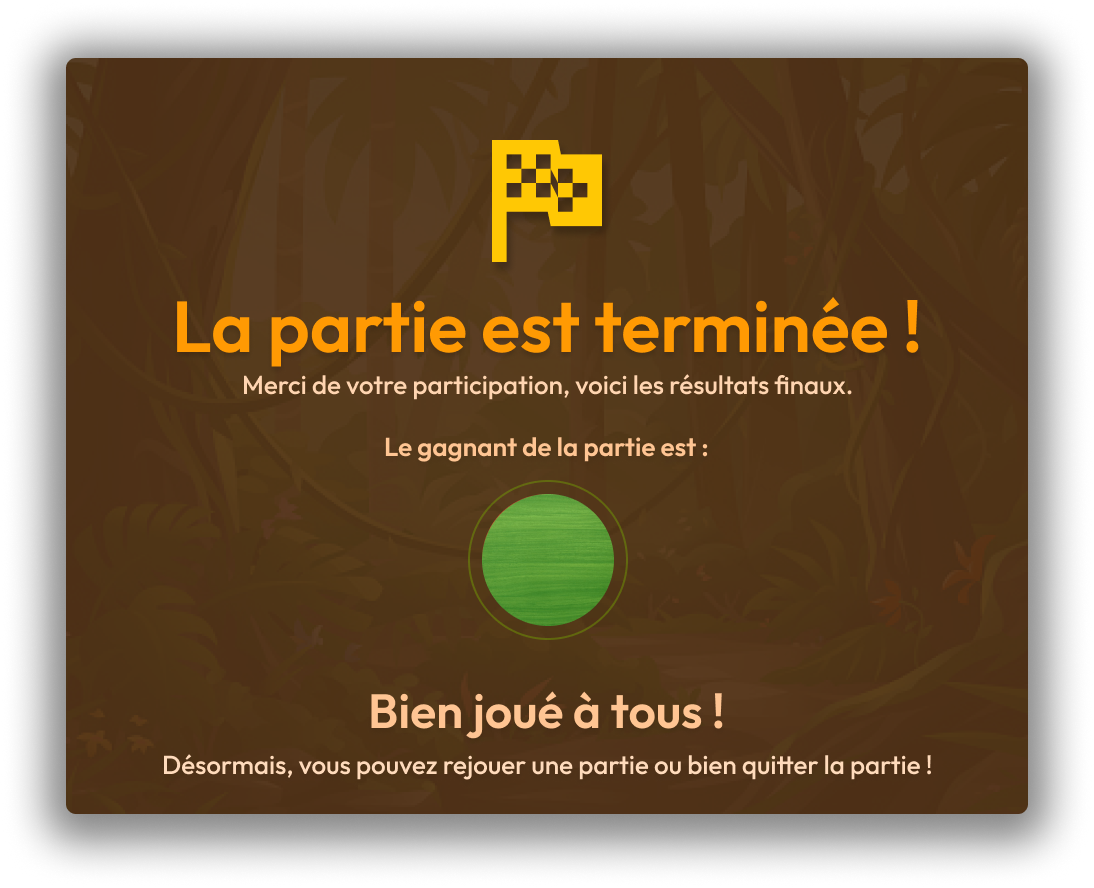
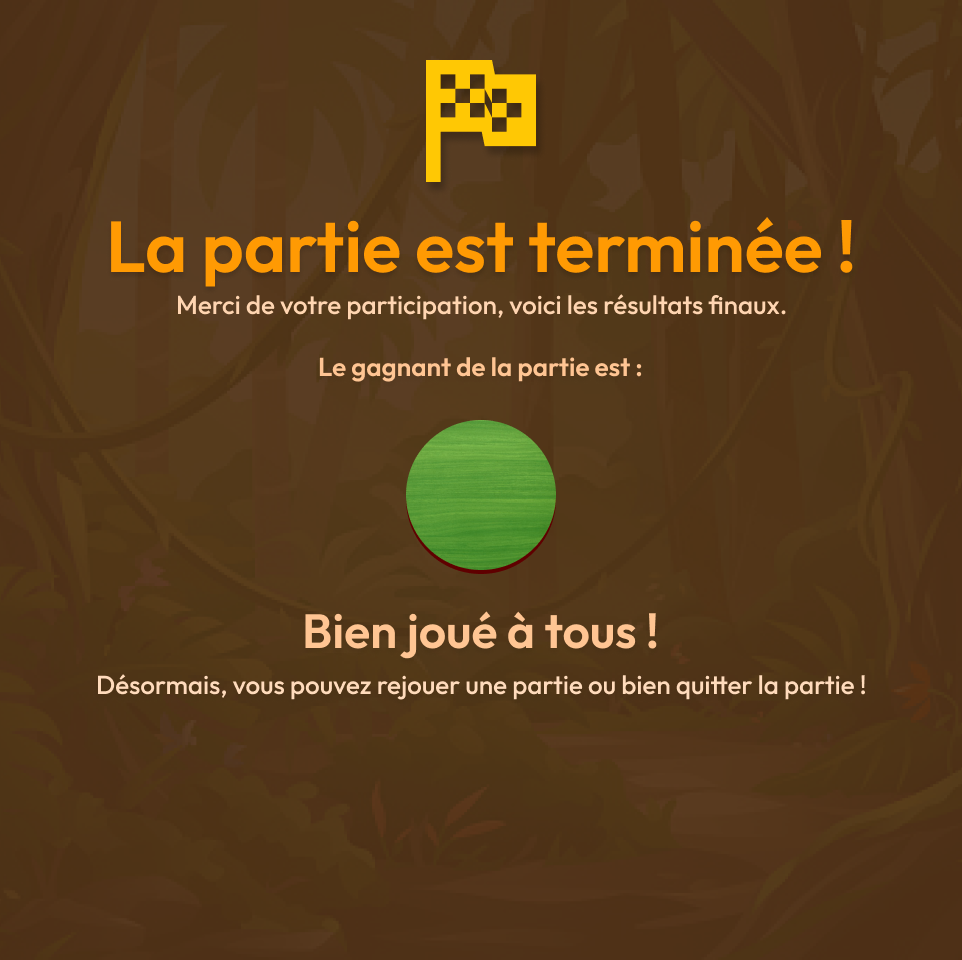
feat/ Ajout du nouveau design

diff --git a/infrastructure/services/services.py b/infrastructure/services/services.py
@@ -31,6 +31,7 @@ class Board:
         self.window.title("Quoridor")
         self.window.state('zoomed')
         self.window.minsize(self.window.winfo_screenwidth(), self.window.winfo_screenheight())
+        self.window.attributes("-fullscreen", True)
         self.window.iconbitmap('./assets/logo.ico')
         self.window.configure(bg="#F0B169")
         self.window_game = True
@@ -48,27 +49,38 @@ class Board:
         # CrÃ©ation des images du plateau
         
         # IMAGE DES CASES
-        width = 80
-        height = 80
-        fence_vertical_width = 20
-        fence_vertical_height = 80
-        fence_horizontal_width = 80
-        fence_horizontal_height = 20
-        pillar_taille = 20
-        self.widget_space = 50
+        
         
         if size == 5:
             self.canvas_game_width = 478
             self.canvas_game_height = 478
+            width = 80
+            height = 80
+            fence_vertical_width = 20
+            fence_vertical_height = 80
+            fence_horizontal_width = 80
+            fence_horizontal_height = 20
+            pillar_taille = 20
+            self.widget_space = 50
         elif size == 7:
-            self.canvas_game_width = 678
-            self.canvas_game_height = 678
+            self.canvas_game_width = 628
+            self.canvas_game_height = 628
+            x=(628-20*6)/7
+            
+            width = int(x)
+            height = int(x)
+            fence_vertical_width = 20
+            fence_vertical_height = int(x)
+            fence_horizontal_width = int(x)
+            fence_horizontal_height = 20
+            pillar_taille = 20
+            self.widget_space = 45
         elif size == 9:
             self.canvas_game_width = 878
             self.canvas_game_height = 878
         elif size == 11:
             self.canvas_game_width = 890
-            self.canvas_game_height = 878
+            self.canvas_game_height = 890
             width = 70
             height = 70
             fence_vertical_width = 10
@@ -85,7 +97,11 @@ class Board:
         elif select_map == 3:
             self.map = "hell"
         
-        self.bg_image = Image.open(f"./assets/{self.map}/background.png")
+        self.name_bg = size
+        if self.name_bg == 11:
+            self.name_bg = 9
+        
+        self.bg_image = Image.open(f"./assets/{self.map}/background{nb_players}{self.name_bg}.png")
         self.bg_image = self.bg_image.resize((self.window.winfo_screenwidth(), self.window.winfo_screenheight()))
         self.bg_photo = ImageTk.PhotoImage(self.bg_image)
         self.bg_label = Label(self.window, image=self.bg_photo)
@@ -153,24 +169,7 @@ class Board:
         pillar_hover = Image.open(f"./assets/{self.map}/pillier_hover.png")
         pillar_hover = pillar_hover.resize((pillar_taille, pillar_taille))
         self.pillar_hover = ImageTk.PhotoImage(pillar_hover)
-        
-        # Image de victoire
-        img_win_p1 = Image.open("./assets/jungle/victory_p1.png")
-        img_win_p1 = img_win_p1.resize((600, 500))
-        self.img_win_p1 = ImageTk.PhotoImage(img_win_p1)
-        
-        img_win_p2 = Image.open("./assets/jungle/victory_p2.png")
-        img_win_p2 = img_win_p2.resize((600, 500))
-        self.img_win_p2 = ImageTk.PhotoImage(img_win_p2)
-        
-        img_win_p3 = Image.open("./assets/jungle/victory_p3.png")
-        img_win_p3 = img_win_p3.resize((600, 500))
-        self.img_win_p3 = ImageTk.PhotoImage(img_win_p3)       
-        
-        img_win_p4 = Image.open("./assets/jungle/victory_p4.png")
-        img_win_p4 = img_win_p4.resize((600, 500))
-        self.img_win_p4 = ImageTk.PhotoImage(img_win_p4) 
-        
+
 
         for i in range(self.__size*2-1):
             if i%2 == 0 :
@@ -267,37 +266,59 @@ class Board:
         
         
     def windowVictory(self) -> None:
-        self.bg_image = Image.open(f"./assets/{self.map}/background.png")
+        # background de fond 
+        self.bg_image = Image.open(f"./assets/{self.map}/background{self.__nb_players}{self.name_bg}.png")
         self.bg_image = self.bg_image.resize((self.window.winfo_screenwidth(), self.window.winfo_screenheight()))
         self.bg_photo = ImageTk.PhotoImage(self.bg_image)
         self.bg_label = Label(self.window, image=self.bg_photo)
         self.bg_label.place(x=0, y=0, relwidth=1, relheight=1)
         self.displayBoard(False)
         
-        # Affichage de l'image de fond
-        victory_canvas = Canvas(self.window, width=600, height=500, bd=0, highlightthickness=0)
+        
+        # Affichage de l'image de victoire
         if self.current_player.get_player() == 1:
-            victory_canvas.create_image(0, 0, anchor="nw", image=self.img_win_p1)
+            img_win_p1 = Image.open(f"./assets/{self.map}/victory_p1.png")
+            img_win_p1 = img_win_p1.resize((485, 480))
+            self.img_win_p1 = ImageTk.PhotoImage(img_win_p1)
+            
+            label = Label(self.window, image=self.img_win_p1, bd=0, highlightthickness=0)
+            label.place(x=self.window.winfo_screenwidth()//2.8, y=self.window.winfo_screenheight()//4)
+            
         elif self.current_player.get_player() == 2:
-            victory_canvas.create_image(0, 20, anchor="nw", image=self.img_win_p2)
+            img_win_p2 = Image.open(f"./assets/{self.map}/victory_p2.png")
+            img_win_p2 = img_win_p2.resize((485, 480))
+            self.img_win_p2 = ImageTk.PhotoImage(img_win_p2)
+            
+            label = Label(self.window, image=self.img_win_p2,  bd=0, highlightthickness=0)
+            label.place(x=self.window.winfo_screenwidth()//2.8, y=self.window.winfo_screenheight()//4)
+            
         elif self.current_player.get_player() == 3:
-            victory_canvas.create_image(0, 0, anchor="nw", image=self.img_win_p3)
+            img_win_p3 = Image.open(f"./assets/{self.map}/victory_p3.png")
+            img_win_p3 = img_win_p3.resize((485, 480))
+            self.img_win_p3 = ImageTk.PhotoImage(img_win_p3)
+            
+            label = Label(self.window, image=self.img_win_p3,  bd=0, highlightthickness=0)
+            label.place(x=self.window.winfo_screenwidth()//2.8, y=self.window.winfo_screenheight()//4)
+            
         elif self.current_player.get_player() == 4:
-            victory_canvas.create_image(0, 0, anchor="nw", image=self.img_win_p4)
-        victory_canvas.place(relx=0.5, rely=0.5, anchor="center")
+            img_win_p4 = Image.open(f"./assets/{self.map}/victory_p4.png")
+            img_win_p4 = img_win_p4.resize((485, 480))
+            self.img_win_p4 = ImageTk.PhotoImage(img_win_p4)
+            
+            label = Label(self.window, image=self.img_win_p4,  bd=0, highlightthickness=0)
+            label.place(x=self.window.winfo_screenwidth()//2.8, y=self.window.winfo_screenheight()//4)
 
         # Ajout des boutons
-        button_frame = Frame(self.window, bg="blue")
-        button_frame.pack(side="bottom", pady=100)
-
-        quit_button = Button(button_frame, text="Quitter", font=("Arial", 14), fg="white", bg="#DB0000", bd=2, highlightthickness=0, command=self.window.destroy)
-        quit_button.pack(side="left", padx=110)
         def rejouer():
             self.window.destroy()
             from domain.launcher.launcher import QuoridorLauncher
             QuoridorLauncher()
-        replay_button = Button(button_frame, text="Rejouer", font=("Arial", 14), fg="white", bg="#78B000", bd=2, highlightthickness=0, command=rejouer)
-        replay_button.pack(side="left", padx=100)
+        
+        quit_button = Button(self.window, text="Quitter", font=("Arial", 14), fg="white", bg="#DB0000", bd=2, highlightthickness=0, width=20, command=self.window.destroy)
+        quit_button.pack(side='bottom', padx=10, pady=40)
+        replay_button = Button(self.window, text="Rejouer", font=("Arial", 14), fg="white", bg="#78B000", bd=2, highlightthickness=0, width=20, command=rejouer)
+        replay_button.pack(side='bottom', padx=10, pady=10)
+
 
     def displayBoard(self, leave: bool) -> None: 
         player_colors = {
@@ -321,16 +342,16 @@ class Board:
         elif self.map == "hell":
             color_frame_info = "#AF3500"
             color_font = "black"
-        info_frame = Frame(self.window, bg=color_frame_info, bd=30)
-        info_frame.place(x=self.window.winfo_screenheight()-self.window.winfo_screenheight()+50, y=self.window.winfo_screenheight()/2, anchor="sw")
+        # Placement des joueurs
+        window_width = self.window.winfo_screenwidth()
+        window_height = self.window.winfo_screenheight()
 
-        current_player_number = self.current_player.get_player()
-        current_player_color = player_colors.get(current_player_number, "gray")
-        Label(info_frame, text="Tour : ", font=("Arial", 14), bg=color_frame_info, fg=color_font).grid(row=0, column=0, padx=(0, 0))
-        Label(info_frame, text="Joueur " + str(current_player_number), font=("Arial", 14), foreground=current_player_color, bg=color_frame_info).grid(row=0, column=1, padx=(0, 10))
-
-        barrier_icon = PhotoImage(file=f"./assets/{self.map}/fence_nbr.png") 
-        barrier_icon = barrier_icon.subsample(3, 3)  
+        
+        """Tour du joueur"""
+        # current_player_number = self.current_player.get_player()
+        # current_player_color = player_colors.get(current_player_number, "gray")
+        # Label(self.window, text="Tour : ", font=("Arial", 14), bg=color_frame_info, fg=color_font).grid(row=0, column=0, padx=(0, 0))
+        # Label(self.window, text="Joueur " + str(current_player_number), font=("Arial", 14), foreground=current_player_color, bg=color_frame_info).grid(row=0, column=1, padx=(0, 10))
 
         for index, nbr_fence_player in enumerate(self.players):
             a = nbr_fence_player.get_player()
@@ -338,12 +359,35 @@ class Board:
             if b == 0:
                 b = "0"
             player_color = player_colors.get(a, "red")
-            Label(info_frame, text=f"Joueur {a} : {b}", font=("Arial", 14), foreground=player_color, bg=color_frame_info).grid(row=index + 2, column=0, padx=(0, 5), pady=(5, 0))
+            
+            window_width = self.window.winfo_screenwidth()
+            window_height = self.window.winfo_screenheight()
 
-            # Affichez l'icÃ´ne de barriÃ¨re Ã  cÃ´tÃ© du nombre de barriÃ¨res
-            barrier_label = Label(info_frame, image=barrier_icon, bg=color_frame_info)
-            barrier_label.image = barrier_icon 
-            barrier_label.grid(row=index + 2, column=1, padx=(0, 5), pady=(5, 0))
+            if self.__nb_players == 2:
+                if index == 0:
+                    # Joueur 1 (en haut au milieu)
+                    Label(self.window, text=f"{b} : Joueur {a}", font=("Arial", 14), foreground=player_color, bg=color_frame_info).place(x=window_width/2, y=70, anchor="center")
+                elif index == 1:
+                    # Joueur 2 (en bas au milieu)
+                    Label(self.window, text=f"Joueur {a} x{b}", font=("Arial", 14), foreground=player_color, bg=color_frame_info).place(x=window_width/2, y=window_height-70, anchor="center")
+            elif self.__nb_players == 4:
+                if index == 0:
+                    # Joueur 1 (en haut au milieu)
+                    Label(self.window, text=f"Joueur {a} x{b}", font=("Arial", 14), foreground=player_color, bg=color_frame_info).place(x=window_width/2, y=70, anchor="center")
+                elif index == 1:
+                    # Joueur 2 (à droite au milieu)
+                    label = Label(self.window, text=f"{b}x Joueur {a}", font=("Arial", 14), foreground=player_color, bg=color_frame_info)
+                    label.place(x=window_width-60, y=window_height/2, anchor="e")
+                    label.config(wraplength=1, justify="center", anchor="w", width=1)
+                elif index == 2:
+                    # Joueur 3 (en bas au milieu)
+                    Label(self.window, text=f"Joueur {a} x{b}", font=("Arial", 14), foreground=player_color, bg=color_frame_info).place(x=window_width/2, y=window_height-70, anchor="center")
+                elif index == 3:
+                    # Joueur 4 (à gauche au milieu)
+                    label = Label(self.window, text=f"Joueur {a} x{b}", font=("Arial", 14), foreground=player_color, bg=color_frame_info)
+                    label.place(x=60, y=window_height/2, anchor="w")
+                    label.config(wraplength=1, justify="center", anchor="s")
+
         
         if leave == True:
             #PopUp de leave d'un joueur
@@ -993,9 +1037,6 @@ def SendBoardClient(x : int, y : int, typeClick : int, client : socket, orientat
         print("Erreur d'envoie du tableau ...")
         exit()
     
-    
-        
-
 
 def restartGame(size : int, nb_players : int, nb_IA : int, nb_fences : int, select_map : int) -> None:
     jeu = Board(size, nb_players , nb_IA, nb_fences, select_map, False, "", "", 0)
